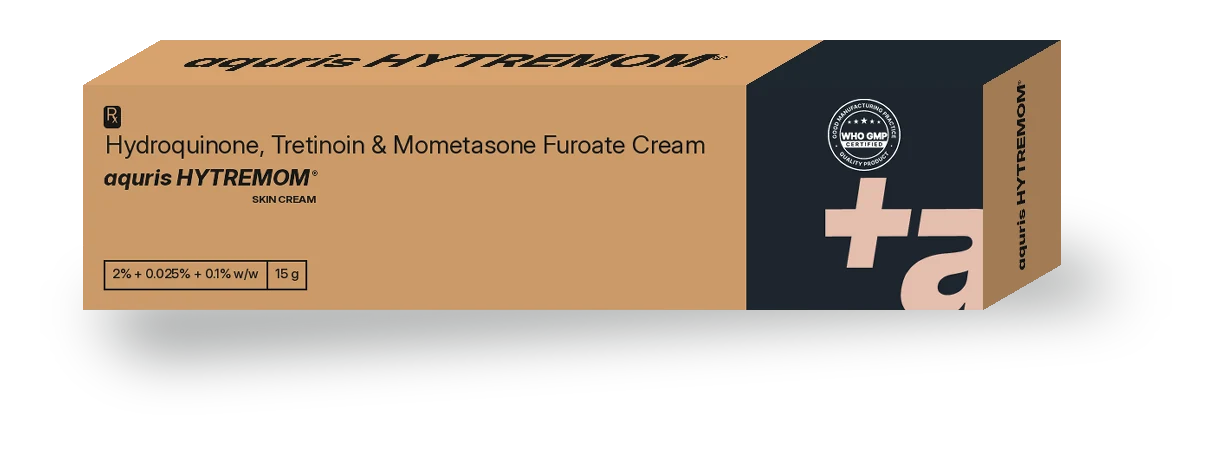
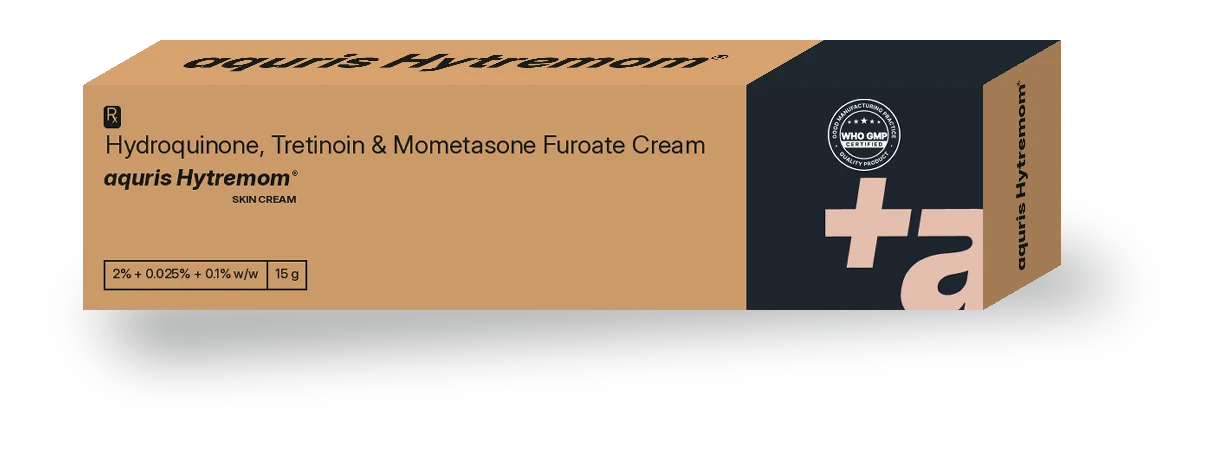
Mock-ups: product names in sentence case (aquris Omzole D, Hytremom, Parasyp 250)
Matches the Azithcin mono carton ("aquris Azithcin 250"); the brand guidelines
record the rule.

Claude-Session: https://claude.ai/code/session_01YNdkZ2f25Pdtv5V1TQM9dx

Changed region(s): [[0.1526, 0.0923, 0.6106, 0.1538], [0.8243, 0.1846, 0.8548, 0.5538], [0.1526, 0.3692, 0.2748, 0.4615]]

diff --git a/.claude/skills/auspharma-brand-guidelines/SKILL.md b/.claude/skills/auspharma-brand-guidelines/SKILL.md
@@ -144,8 +144,9 @@ distinct on brown board.
     bottom corner (kept on the panel), Rx box, generic name, brand line, strength | pack box bottom left,
     brand set vertically on the side and across the top flap.
   - Take the wording from the product's previous artwork, and put ® / ™ where it has them
-    (e.g. "aquris OMZOLE®D", "aquris HYTREMOM®"); no mark where the artwork has none.
-  - Write "aquris" in lowercase before the product name. The word marks are registered as
+    (e.g. "aquris Omzole®D", "aquris Hytremom®"); no mark where the artwork has none.
+  - Write "aquris" in lowercase and the product name in sentence case ("aquris Azithcin 250",
+    "aquris Omzole D"), never in capitals (AUSPHARMA, 28 Nov 2026). The word marks are registered as
     "AQURIS OMZOLE" etc., and a change of case keeps the same mark, but the ® must sit on the full
     registered mark, never straight after "aquris" (AQURIS alone is not yet registered).
   - **Outer cartons never carry the colour patch** (AUSPHARMA, 28 Nov 2026): kraft only, black WHO-GMP
